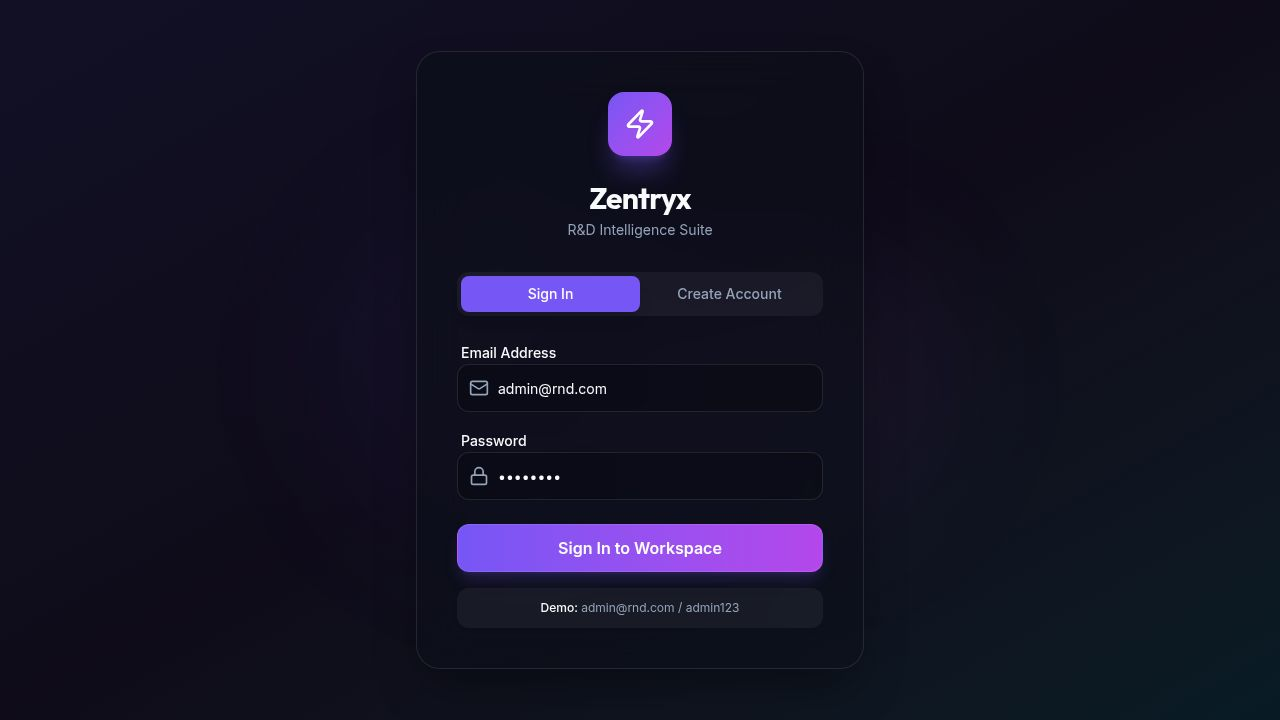
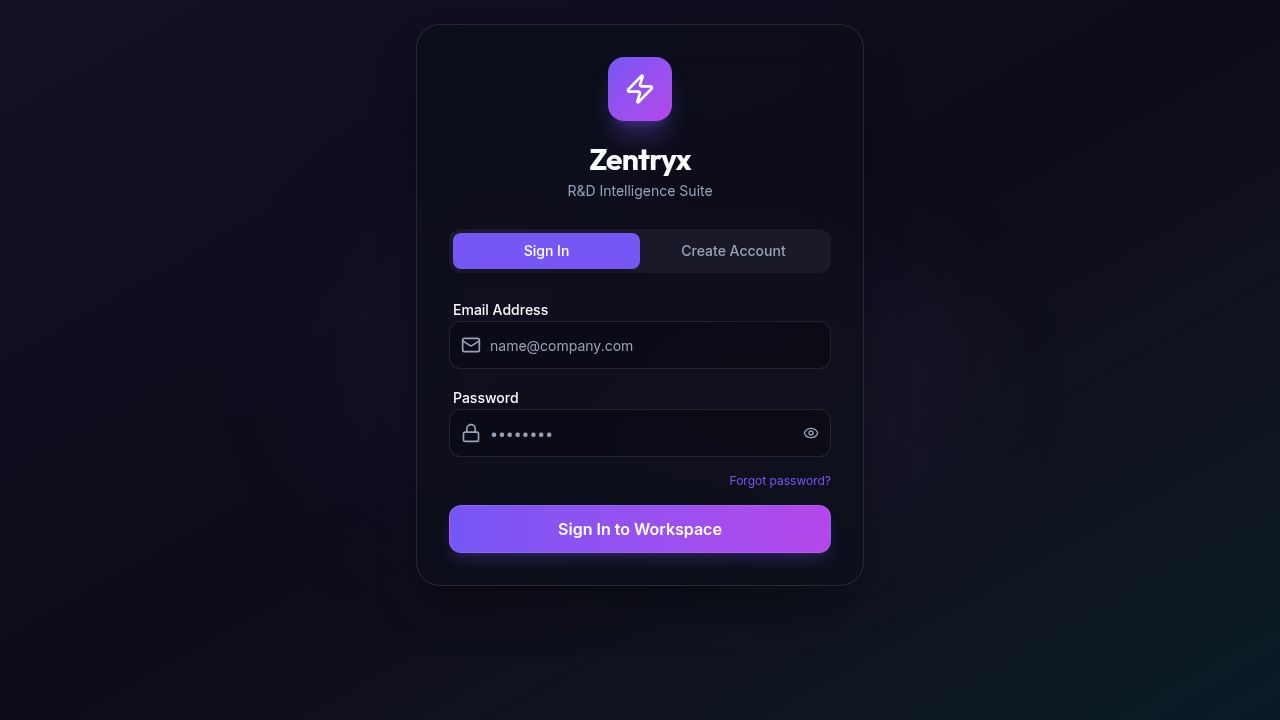
Improve page scrolling and responsiveness across all devices and zoom levels
Modify the login page structure to use fixed positioning and overflow auto for the main container, ensuring consistent scrollability and responsiveness regardless of screen size or zoom level. Adjustments include styling for background elements and scroll buttons.

Replit-Commit-Author: Agent
Replit-Commit-Session-Id: 266498d8-8f22-4a2c-a282-0fbf8cf49f60
Replit-Commit-Checkpoint-Type: full_checkpoint
Replit-Commit-Event-Id: 5aafada6-dda7-4095-a3e4-56bd1bd01721
Replit-Commit-Screenshot-Url: https://storage.googleapis.com/screenshot-production-us-central1/d178b2cf-b3aa-4dfe-943c-2bf78f078317/266498d8-8f22-4a2c-a282-0fbf8cf49f60/VNJ4Bf8
Replit-Helium-Checkpoint-Created: true

Changed region(s): [[0.3438, 0.0611, 0.6562, 0.8556], [0.5312, 0.3972, 0.625, 0.4278], [0.625, 0.5806, 0.6562, 0.6111]]

diff --git a/artifacts/rd-intelligence/src/pages/login.tsx b/artifacts/rd-intelligence/src/pages/login.tsx
@@ -204,38 +204,44 @@ export default function Login() {
   );
 
   return (
-    <div ref={scrollRef} className="min-h-screen flex flex-col items-center justify-start py-8 relative overflow-y-auto bg-background">
-      <div className="absolute inset-0 z-0 pointer-events-none">
+    <div
+      ref={scrollRef}
+      className="fixed inset-0 overflow-y-auto bg-background"
+    >
+      {/* Background decoration */}
+      <div className="fixed inset-0 z-0 pointer-events-none">
         <div className="absolute inset-0 bg-gradient-to-br from-primary/10 via-accent/5 to-secondary/10" />
         <div className="absolute top-1/4 left-1/4 w-96 h-96 bg-primary/5 rounded-full blur-3xl" />
         <div className="absolute bottom-1/4 right-1/4 w-80 h-80 bg-accent/5 rounded-full blur-3xl" />
       </div>
 
-      {/* Manual scroll buttons — only shown on the signup form */}
+      {/* Manual scroll buttons — only on signup, sticks to viewport */}
       {mode === "signup" && (
-        <div className="fixed right-4 bottom-6 z-50 flex flex-col gap-2">
+        <div className="fixed right-3 bottom-5 z-50 flex flex-col gap-2">
           <button
-            onClick={() => scrollBy(-160)}
-            className="w-10 h-10 rounded-full bg-primary/80 hover:bg-primary text-white flex items-center justify-center shadow-lg transition-all active:scale-95"
+            onClick={() => scrollBy(-180)}
+            className="w-9 h-9 rounded-full bg-primary/90 hover:bg-primary text-white flex items-center justify-center shadow-lg transition-all active:scale-95"
             title="Scroll up"
           >
-            <ChevronUp className="w-5 h-5" />
+            <ChevronUp className="w-4 h-4" />
           </button>
           <button
-            onClick={() => scrollBy(160)}
-            className="w-10 h-10 rounded-full bg-primary/80 hover:bg-primary text-white flex items-center justify-center shadow-lg transition-all active:scale-95"
+            onClick={() => scrollBy(180)}
+            className="w-9 h-9 rounded-full bg-primary/90 hover:bg-primary text-white flex items-center justify-center shadow-lg transition-all active:scale-95"
             title="Scroll down"
           >
-            <ChevronDown className="w-5 h-5" />
+            <ChevronDown className="w-4 h-4" />
           </button>
         </div>
       )}
 
+      {/* Card — centred with breathing room on all screens */}
+      <div className="relative z-10 flex flex-col items-center justify-start min-h-full py-6 px-4">
       <motion.div
         initial={{ opacity: 0, scale: 0.95 }}
         animate={{ opacity: 1, scale: 1 }}
         transition={{ duration: 0.5 }}
-        className="relative z-10 w-full max-w-md p-8 sm:p-10 glass-panel rounded-3xl"
+        className="relative w-full max-w-md p-6 sm:p-8 glass-panel rounded-3xl"
       >
         {/* Logo */}
         <div className="flex flex-col items-center mb-7">
@@ -440,6 +446,7 @@ export default function Login() {
           </motion.div>
         </AnimatePresence>
       </motion.div>
+      </div>
     </div>
   );
 }
